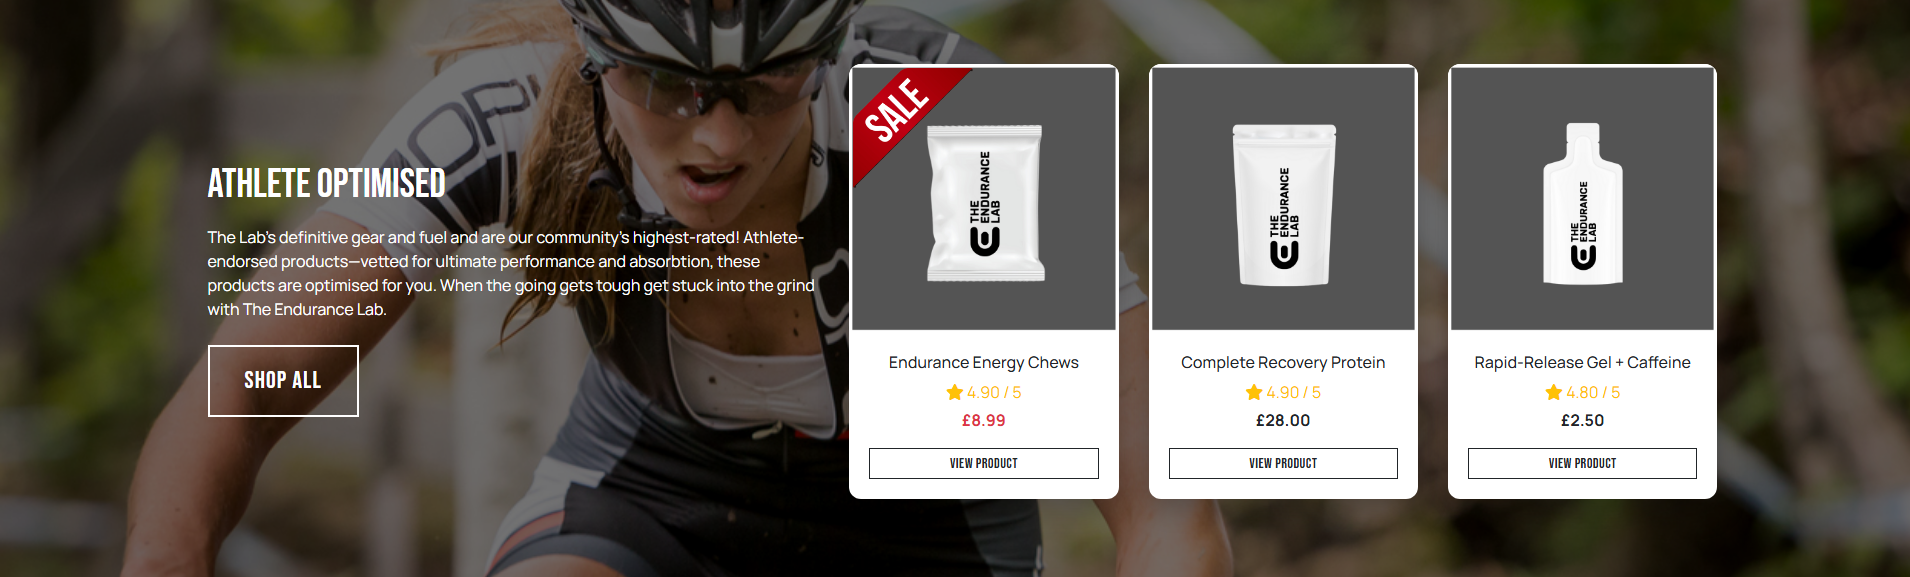
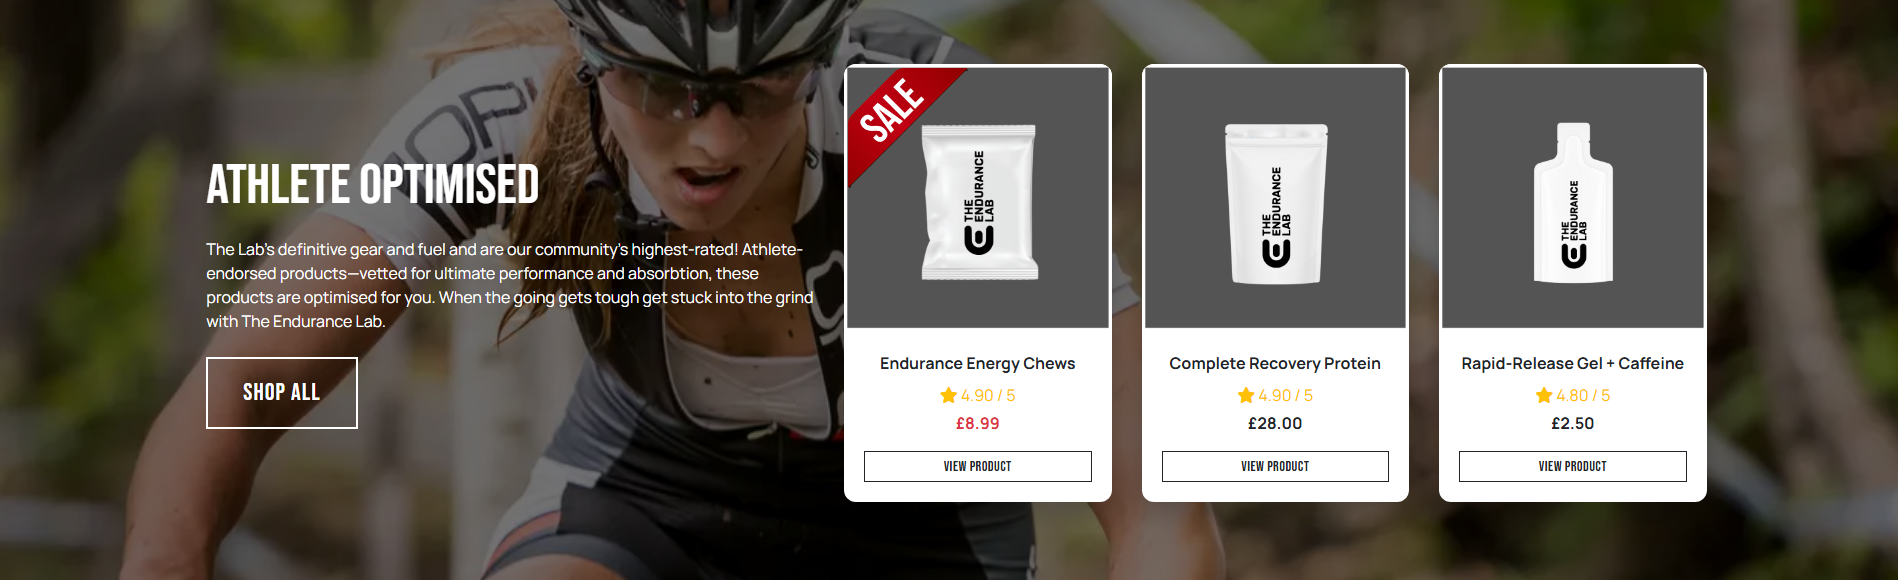
Button consistency check

diff --git a/home/templates/home/index.html b/home/templates/home/index.html
@@ -25,32 +25,41 @@
 <!--Category Divider-->
 
 <div class="container marketing">
-    <h2 class="text-uppercase text-center text-dark mt-4">Products By Category</h2>
+    <h2 class="text-uppercase text-center text-dark mt-3 home-page-headings display-4">Products By Category</h2>
     <section class="row">
-        <div class="col-lg-4 text-center">
+        <div class="col-lg-4 col-md-6 text-center mb-5">
             <div class="rounded-circle bg-dark d-flex align-items-center justify-content-center mx-auto" style="width: 140px; height: 140px;">
                 <i class="fa-solid fa-battery-quarter fa-4x text-success"></i>
             </div>
-            <h2 class="fw-normal mt-3">Energy</h2>
-            <p class="text-dark text">Sustained Release (No sugar spikes or crashes)</p>
+            <h2 class="fw-normal mt-3 h4">Energy</h2>
+            <div class="category-text-container mx-auto" style="max-width: 250px;">
+            <p class="text-dark mb-0"><strong>Sustained Release</strong></p>
+            <p class="text-muted small">(No sugar spikes or crashes)</p>
+        </div>
             <p><a class="btn btn-custom mt-3" href="{{ products_url }}?category=energy,energy_gels,energy_powder,energy_bars,energy_drinks">View details</a></p>
         </div>
-        <div class="col-lg-4 text-center">
+        <div class="col-lg-4 col-md-6 text-center mb-5">
             <div class="rounded-circle bg-dark d-flex align-items-center justify-content-center mx-auto" style="width: 140px; height: 140px;">
                 <i class="fa-solid fa-droplet fa-4x text-primary"></i>
             </div>
 
-            <h2 class="fw-normal mt-3">Hydration</h2>
-            <p class="text-dark text">Precision Electrolytes (Targeted sodium/potassium ratios)</p>
+            <h2 class="fw-normal mt-3 h4">Hydration</h2>
+            <div class="category-text-container mx-auto" style="max-width: 250px;">
+            <p class="text-dark mb-0"><strong>Precision Electrolytes</strong></p>
+            <p class="text-muted small text-nowrap">(Targeted sodium/potassium ratios)</p>
+        </div>
             <p><a class="btn btn-custom mt-3" href="{{ products_url }}?category=hydration,electrolyte_powders,hydration_tabs,bottles">View details</a></p>
         </div>
-        <div class="col-lg-4 text-center">
+        <div class="col-lg-4 col-md-6 text-center mb-5">
             <div class="rounded-circle bg-dark d-flex align-items-center justify-content-center mx-auto" style="width: 140px; height: 140px;">
                 <i class="fa-solid fa-heart-pulse fa-4x text-danger"></i>
             </div>
 
-            <h2 class="fw-normal mt-3">Recovery</h2>
-            <p class="text-dark text">Total Synthesis (Full-spectrum muscle repair)</p>
+            <h2 class="fw-normal mt-3 h4">Recovery</h2>
+            <div class="category-text-container mx-auto" style="max-width: 250px;">
+            <p class="text-dark mb-0"><strong>Total Synthesis</strong>
+            <p class="text-muted small">(Full-spectrum muscle repair)</p>
+        </div>
             <p><a class="btn btn-custom mt-3" href="{{ products_url }}?category=recovery,shakers,recovery_powder">View details</a></p>
         </div>
     </section>
@@ -68,7 +77,7 @@
         <div class="row align-items-center">
 
             <div class="col-12 col-lg-5 mb-4 mb-lg-0">
-                <h2 class="text-white text-uppercase mb-3">Athlete Optimised</h2>
+                <h2 class="text-white text-uppercase mb-3 display-4 home-page-headings">Athlete Optimised</h2>
                 <p class="text-white mb-4">
                     The Lab’s definitive gear and fuel and are our community’s highest-rated!
                     Athlete-endorsed products—vetted for ultimate performance and absorbtion, these products are optimised for you. When the going gets tough get stuck into the grind with The Endurance Lab.

diff --git a/products/templates/products/product_detail.html b/products/templates/products/product_detail.html
@@ -53,10 +53,10 @@
                 {% endif %}
                 {% if request.user.is_superuser %}
                 <div class="mt-2">
-                    <a href="{% url 'edit_product' product.id %}" class="badge allauth-info-btn p-2 mr-0 text-uppercase">
+                    <a href="{% url 'edit_product' product.id %}" class="badge allauth-info-btn p-2 mr-0 rounded-0 text-uppercase">
                         Edit
                     </a>
-                    <a href="{% url 'delete_product' product.id %}" class="badge allauth-danger-btn p-2 text-uppercase">
+                    <a href="{% url 'delete_product' product.id %}" class="badge allauth-danger-btn p-2 rounded-0 text-uppercase">
                         Delete
                     </a>
                 </div>
@@ -105,13 +105,13 @@
                             </div>
                         </div>
                         <div class="col-12">
-                            <a href="{{ products_url }}" class="btn btn-custom text-uppercase icon mt-5">
+                            <a href="{{ products_url }}" class="btn allauth-info-btn text-uppercase rounded-0 icon mt-5">
                                 <span class="icon">
                                     <i class="fas fa-chevron-left"></i>
                                 </span>
                                 <span class="text-uppercase">Keep Shopping</span>
                             </a>
-                            <input type="submit" class="btn btn-custom text-uppercase icon mt-5" value="Add to Cart">
+                            <input type="submit" class="btn allauth-info-btn text-uppercase rounded-0 icon mt-5" value="Add to Cart">
                         </div>
                         <input type="hidden" name="redirect_url" value="{{ request.path }}">
                     </div>

diff --git a/templates/base.html b/templates/base.html
@@ -172,13 +172,13 @@
                 </div>
                 <div class="d-flex align-items-center flex-nowrap mt-3">
 
-                    <a href="https://github.com/Darren-Longhurst?tab=repositories" target="_blank" rel="noopener noreferrer" class="btn btn-outline-dark btn-sm github-btn mr-2"> <i class="fa-brands fa-github"></i> GitHub
+                    <a href="https://github.com/Darren-Longhurst?tab=repositories" target="_blank" rel="noopener noreferrer" class="btn btn-outline-dark btn-sm github-btn mr-2 rounded-0"> <i class="fa-brands fa-github"></i> GitHub
                     </a>
 
-                    <a href="{{ contact_url }}" class="btn btn-outline-dark btn-sm mr-2">
+                    <a href="{{ contact_url }}" class="btn btn-outline-dark btn-sm mr-2 rounded-0">
                         <i class="fas fa-envelope mr-1"></i> Contact
                     </a>
-                    <a href="{% url 'privacy_policy' %}" class="btn btn-outline-dark btn-sm"><i class="fas fa-lock mr-1"></i>Privacy Policy</a>
+                    <a href="{% url 'privacy_policy' %}" class="btn btn-outline-dark btn-sm rounded-0"><i class="fas fa-lock mr-1"></i>Privacy Policy</a>
 
                 </div>
 

diff --git a/products/templates/products/products.html b/products/templates/products/products.html
@@ -123,10 +123,10 @@
 
                                     {% if request.user.is_superuser %}
                                     <div class="mt-2">
-                                        <a href="{% url 'edit_product' product.id %}" class="badge allauth-info-btn p-2 mr-0 text-uppercase">
+                                        <a href="{% url 'edit_product' product.id %}" class="badge allauth-info-btn p-2 mr-0 rounded-0 text-uppercase">
                                             Edit
                                         </a>
-                                        <a href="{% url 'delete_product' product.id %}" class="badge allauth-danger-btn p-2 text-uppercase">
+                                        <a href="{% url 'delete_product' product.id %}" class="badge allauth-danger-btn p-2 rounded-0 text-uppercase">
                                             Delete
                                         </a>
                                     </div>

diff --git a/checkout/templates/checkout/checkout.html b/checkout/templates/checkout/checkout.html
@@ -128,11 +128,11 @@
                 </fieldset>
 
                 <div class="d-flex justify-content-between align-items-center mt-3">
-                    <a href="{% url 'view_cart' %}" class="btn btn-custom px-3">
+                    <a href="{% url 'view_cart' %}" class="btn allauth-info-btn rounded-0 text-uppercase px-3">
                         <i class="fas fa-chevron-left mr-2"></i>Adjust Cart
                     </a>
 
-                    <button id="submit-button" class="btn btn-custom px-3">
+                    <button id="submit-button" class="btn allauth-info-btn rounded-0 text-uppercase px-3">
                         Complete Order<i class="fas fa-lock ml-2"></i>
                     </button>
                 </div>

diff --git a/cart/templates/cart/checkout-buttons.html b/cart/templates/cart/checkout-buttons.html
@@ -1,6 +1,8 @@
-<a href="{{ products_url }}" class="btn btn-custom text-uppercase btn-lg rounded-0">
-  <i class="fas fa-chevron-left mr-2"></i> Keep Shopping
-</a>
-<a href="{% url 'checkout' %}" class="btn btn-custom text-uppercase btn-lg rounded-0">
-  Secure Checkout <i class="fas fa-lock ml-2"></i>
-</a>
+<div class="d-flex flex-column flex-md-row justify-content-between mt-4">
+    <a href="{{ products_url }}" class="btn allauth-info-btn text-uppercase btn-lg rounded-0 mb-3 mb-md-0">
+        <i class="fas fa-chevron-left mr-2"></i> Keep Shopping
+    </a>
+    <a href="{% url 'checkout' %}" class="btn allauth-info-btn text-uppercase btn-lg rounded-0">
+        Secure Checkout <i class="fas fa-lock ml-2"></i>
+    </a>
+</div>

diff --git a/static/css/base.css b/static/css/base.css
@@ -117,6 +117,10 @@ h2 {
     font-weight: 400;
 }
 
+.home-page-headings  {
+    font-family: var(--primary-font);
+}
+
 /* -- Newsletter Signup --*/
 
 #newsletter {
@@ -150,6 +154,7 @@ h2 {
 .hero-btn {
     font-family: var(--primary-font);
     max-width: 280px;
+    letter-spacing: 3px;
     white-space: nowrap;
     padding: 3px 35px;
     font-size: clamp(1.1rem, 4vw, 1.5rem);
